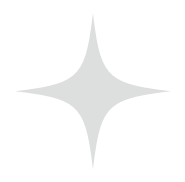
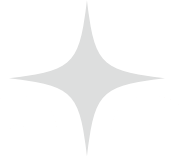
Initial commit

diff --git a/public/css/style.css b/public/css/style.css
@@ -547,8 +547,8 @@ header.nav-hidden{transform:translateY(-100%);}
    padded crop, not edge-to-edge art, so the visible glyph needs more
    room to read at the same size as before. */
 .how-star{
-  display:inline-block;width:.92em;height:.92em;margin:0 -.22em;
-  position:relative;top:-.72em;
+  display:inline-block;width:.94em;height:.82em;margin:0 -.4em;
+  position:relative;top:-.82em;
   object-fit:contain;vertical-align:baseline;
 }
 

diff --git a/public/index.html b/public/index.html
@@ -8,7 +8,7 @@
 <link rel="preconnect" href="https://fonts.googleapis.com">
 <link rel="preconnect" href="https://fonts.gstatic.com" crossorigin>
 <link href="https://fonts.googleapis.com/css2?family=Anton&family=Arimo:wght@700;800&family=Work+Sans:wght@400;500;600;700;800&display=swap" rel="stylesheet">
-<link rel="stylesheet" href="css/style.css?v=104">
+<link rel="stylesheet" href="css/style.css?v=105">
 </head>
 <body>
 
